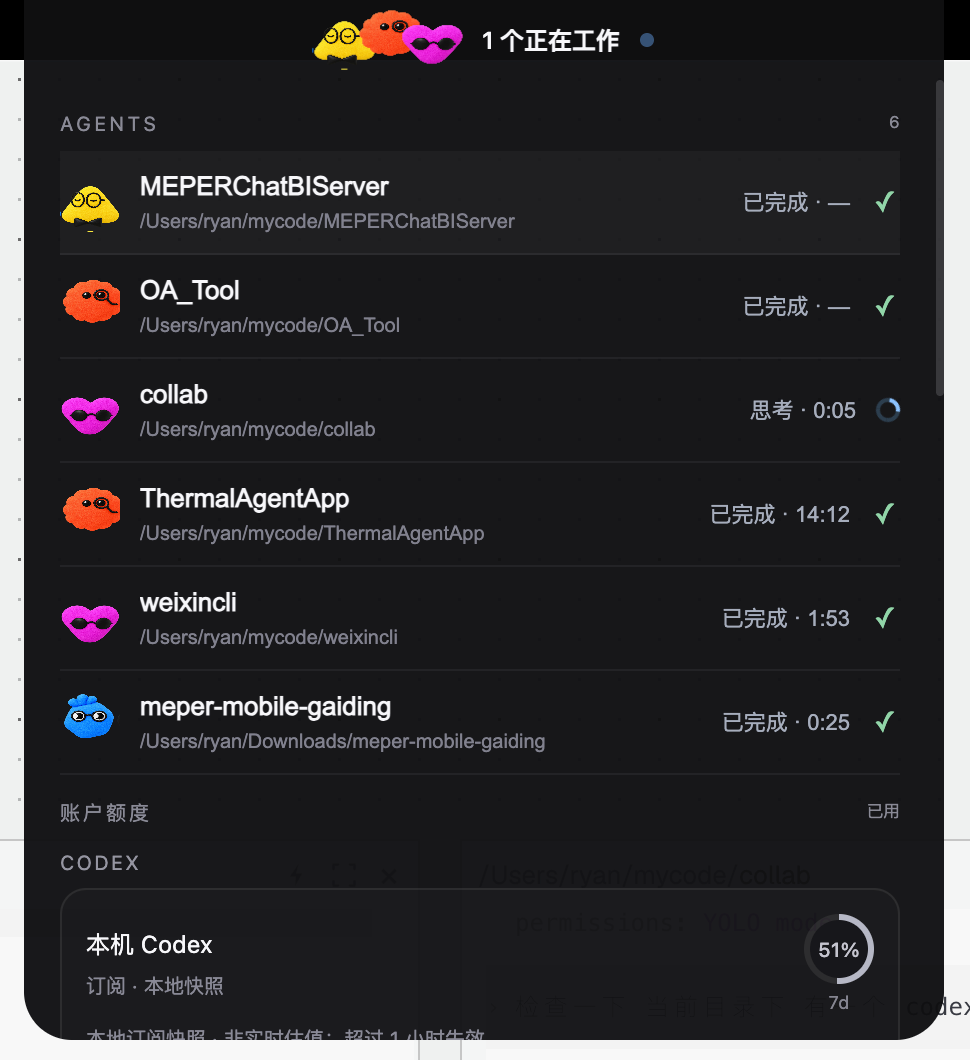
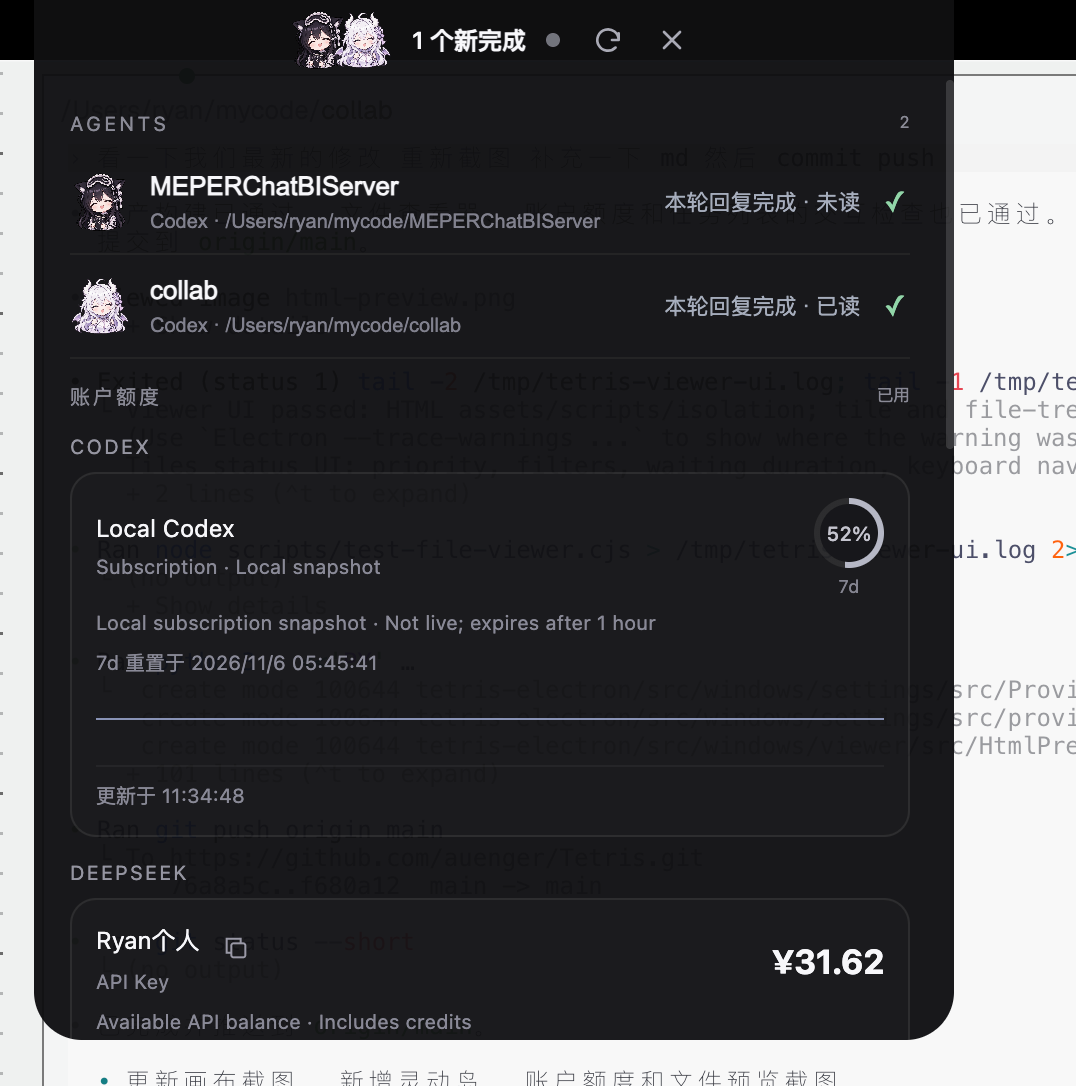
docs: refresh user-provided Dynamic Island screenshot

diff --git a/docs/screenshots/README.md b/docs/screenshots/README.md
@@ -15,7 +15,7 @@ Canvas and notification images render production canvas, group, xterm and notifi
 | 文件 / File | 来源与内容 / Source and content |
 | --- | --- |
 | `touch-bar.png` | 用户提供的 MacBook Pro 实拍原图，展示 Touch Bar 会话状态与翻页 / Original user-provided MacBook Pro photo showing session status and pagination |
-| `dynamic-island.png` | 用户提供的灵动岛展开截图，展示任务状态和账户额度 / User-provided expanded Dynamic Island screenshot with sessions and usage |
+| `dynamic-island.png` | 用户于 2026-11-03 提供的灵动岛展开截图，展示新完成任务、已读状态和账户额度 / User-provided capture updated on 2026-11-03, showing completed sessions, read status and account usage |
 
 两张图片按原图保存，未重绘或替换项目名称、路径、状态与额度。画面是拍摄时的状态；它们不由下方 fixture 生成。更新时请从实机重新拍摄或截图，并检查图中的项目路径与账户信息是否适合公开。
 

diff --git a/README.en.md b/README.en.md
@@ -42,7 +42,7 @@ The Touch Bar shows Codex session avatars, working-directory names and status: a
 
 ### Dynamic Island: a task overview at the top of the screen
 
-<img src="docs/screenshots/dynamic-island.png" width="480" alt="Expanded Dynamic Island showing working count, sessions, elapsed time and account usage" />
+<img src="docs/screenshots/dynamic-island.png" width="480" alt="Expanded Dynamic Island showing newly completed sessions, read status and account usage" />
 
 No Touch Bar hardware is required. The compact view shows avatars and a working count. Hover to expand session paths, status, elapsed time and account usage; click a session to locate its linked terminal. Drag the top avatar/status area horizontally to reposition the panel. It stays attached to the top edge and remembers its position.
 

diff --git a/docs/guide.en.md b/docs/guide.en.md
@@ -64,7 +64,7 @@ Requires a Mac with Touch Bar hardware. Full-width and experimental cross-app re
 
 ### Dynamic Island: a task overview at the top of the screen
 
-<img src="screenshots/dynamic-island.png" width="480" alt="Expanded Dynamic Island showing working count, sessions, elapsed time and account usage" />
+<img src="screenshots/dynamic-island.png" width="480" alt="Expanded Dynamic Island showing newly completed sessions, read status and account usage" />
 
 No Touch Bar hardware is required. The compact view shows avatars and a working count. Hover to expand session paths, status, elapsed time and account usage; click a session to locate its linked terminal. Drag the top avatar/status area horizontally to reposition the panel. It stays attached to the top edge and remembers its position.
 

diff --git a/README.md b/README.md
@@ -42,7 +42,7 @@ Touch Bar 显示 Codex 会话的头像、工作目录名称与状态：蓝色旋
 
 ### 灵动岛：屏幕顶部的任务总览
 
-<img src="docs/screenshots/dynamic-island.png" width="480" alt="灵动岛展开视图：工作中数量、会话状态、耗时及账户额度" />
+<img src="docs/screenshots/dynamic-island.png" width="480" alt="灵动岛展开视图：新完成数量、会话已读状态及账户额度" />
 
 无需 Touch Bar 硬件。收起时显示头像和工作中数量，悬停展开会话列表，查看目录、状态、耗时和账户额度；点击会话可定位关联终端。拖动顶部头像与状态区域可调整横向位置，面板保持吸附屏幕顶部并保存位置。
 

diff --git a/docs/guide.zh-CN.md b/docs/guide.zh-CN.md
@@ -64,7 +64,7 @@ Touch Bar 显示 Codex 会话的头像、工作目录名称与状态：蓝色旋
 
 ### 灵动岛：屏幕顶部的任务总览
 
-<img src="screenshots/dynamic-island.png" width="480" alt="灵动岛展开视图：工作中数量、会话状态、耗时及账户额度" />
+<img src="screenshots/dynamic-island.png" width="480" alt="灵动岛展开视图：新完成数量、会话已读状态及账户额度" />
 
 无需 Touch Bar 硬件。收起时显示头像和工作中数量，悬停展开会话列表，查看目录、状态、耗时和账户额度；点击会话可定位关联终端。拖动顶部头像与状态区域可调整横向位置，面板保持吸附屏幕顶部并保存位置。
 
